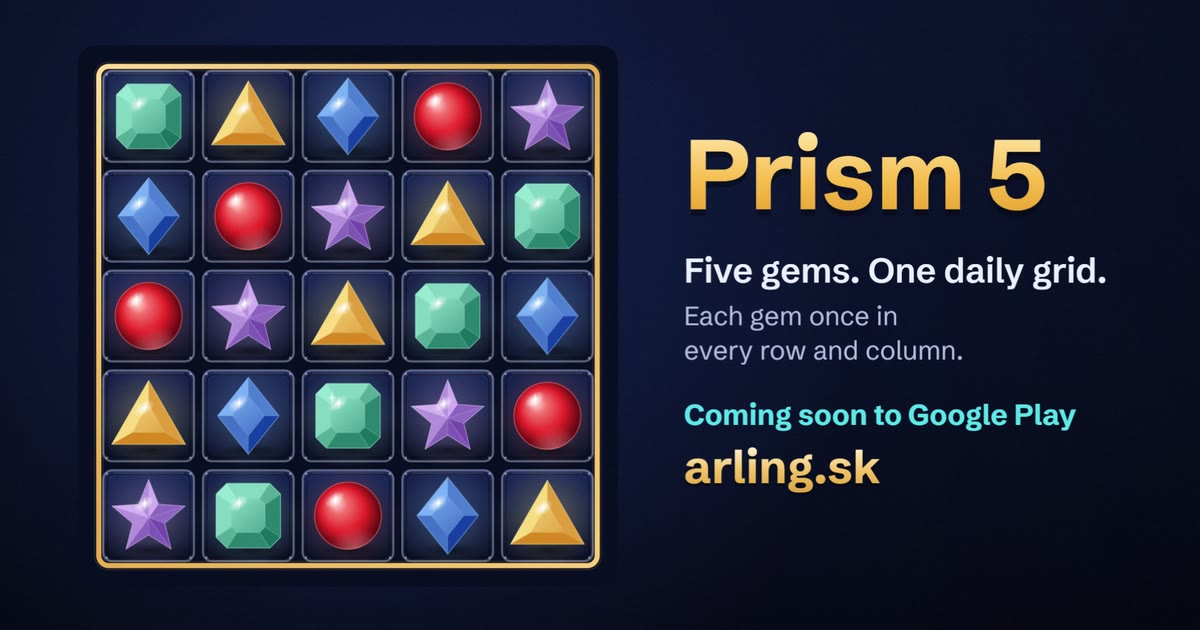
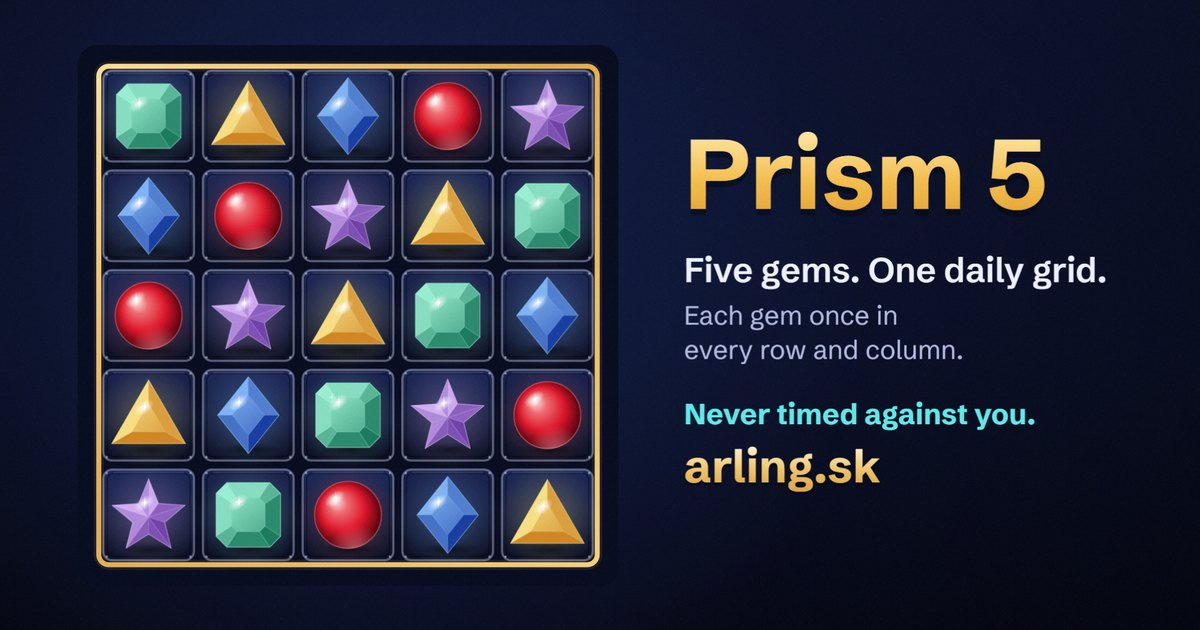
fable: hry na webe pravdivo a s meraním (Andrej 8. 10.: odkaz do Google Play ostáva)
- tlačidlá a odkazy do Play s referrer= (utm_source arling.sk, medium hub alebo film), udalosť play_store vo filme
- preč „Until then“ a „Coming soon to Google Play“ pri hrách, ktoré v obchode sú; FAQ: všetky štyri sú v Play
- Prism 5: záver filmu „One daily grid“ (živá 0.4.0), nie „Four daily grids“
- /play/<hra>/ prenesie UTM na stránku filmu (Umami) namiesto hubu bez merania
- nové náhľady a og.jpg zo skutočných záverov filmov
- Word Search: zásady súkromia spomínajú aj platbu cez Google Play

diff --git a/play/index.html b/play/index.html
@@ -229,28 +229,28 @@ html:not(.css) main>:nth-child(n+2),html:not(.css) body>footer{visibility:hidden
  <a class="product-preview sv-obraz" href="https://arling.sk/play/word-search/film/" data-umami-event="play_film" data-umami-event-appka="word-search"><img src="/play/word-search/film/nahlad-4x5.jpg" alt="A word search board from the film: daisy, tulip, fern and rose found with soft coloured highlights" width="800" height="1000" loading="lazy" decoding="async"></a>
  <div class="sv-text">
   <div class="product-copy"><h3><a href="https://arling.sk/play/word-search/film/" data-umami-event="play_film" data-umami-event-appka="word-search">Word Search: Calm Word Puzzles</a></h3><p class="product-kind">A calm word game for Android</p><p>Find a word, find your flow. Swipe across the letters to find the hidden words in 150 topics, earn coins for every level and spend them on highlighter styles.</p><p class="product-format">Android, no account, <a href="/play/word-search/privacy/">privacy policy</a></p></div>
-  <div class="product-buy"><p class="product-price">Free<span>On Google Play</span></p><div class="sv-kroky"><a class="quiet quiet-lead sv-kupit sv-kupit-plny" href="https://play.google.com/store/apps/details?id=sk.arling.wordsearch&amp;utm_source=arling.sk&amp;utm_medium=hub&amp;utm_campaign=play" rel="noopener" data-umami-event="play_store" data-umami-event-appka="word-search">Get it on Google Play<svg viewBox="0 0 24 24" fill="none" stroke="currentColor" stroke-width="2" stroke-linecap="round" stroke-linejoin="round" aria-hidden="true"><path d="M5 12h13M13 6l6 6-6 6"/></svg></a><a class="quiet" href="https://arling.sk/play/word-search/film/" data-umami-event="play_film" data-umami-event-appka="word-search">Watch the film</a></div></div>
+  <div class="product-buy"><p class="product-price">Free<span>On Google Play</span></p><div class="sv-kroky"><a class="quiet quiet-lead sv-kupit sv-kupit-plny" href="https://play.google.com/store/apps/details?id=sk.arling.wordsearch&amp;referrer=utm_source%3Darling.sk%26utm_medium%3Dhub%26utm_campaign%3Dword-search%26utm_content%3Dplay-hub" rel="noopener" data-umami-event="play_store" data-umami-event-appka="word-search">Get it on Google Play<svg viewBox="0 0 24 24" fill="none" stroke="currentColor" stroke-width="2" stroke-linecap="round" stroke-linejoin="round" aria-hidden="true"><path d="M5 12h13M13 6l6 6-6 6"/></svg></a><a class="quiet" href="https://arling.sk/play/word-search/film/" data-umami-event="play_film" data-umami-event-appka="word-search">Watch the film</a></div></div>
  </div>
 </li>
 <li class="product sv-dl sv-siroka sv-naopak zjav" id="prism5">
  <a class="product-preview sv-obraz" href="https://arling.sk/play/prism5/film/" data-umami-event="play_film" data-umami-event-appka="prism5"><img src="/play/prism5/film/nahlad-4x5.jpg" alt="A finished Prism 5 grid of five gems on a dark board with a gold frame" width="800" height="1000" loading="lazy" decoding="async"></a>
  <div class="sv-text">
   <div class="product-copy"><h3><a href="https://arling.sk/play/prism5/film/" data-umami-event="play_film" data-umami-event-appka="prism5">Prism 5: 5x5 Gem Sudoku</a></h3><p class="product-kind">A daily gem puzzle for Android</p><p>Five gems, one daily grid. Each gem once in every row and every column, and one small deduction at a time. A new grid every day, the same for everyone, never timed against you.</p><p class="product-format">Android, no account, <a href="/play/prism5/privacy/">privacy policy</a></p></div>
-  <div class="product-buy"><p class="product-price">Free<span>On Google Play</span></p><div class="sv-kroky"><a class="quiet quiet-lead sv-kupit sv-kupit-plny" href="https://play.google.com/store/apps/details?id=sk.arling.prism5&amp;utm_source=arling.sk&amp;utm_medium=hub&amp;utm_campaign=prism5" rel="noopener" data-umami-event="play_store" data-umami-event-appka="prism5">Get it on Google Play<svg viewBox="0 0 24 24" fill="none" stroke="currentColor" stroke-width="2" stroke-linecap="round" stroke-linejoin="round" aria-hidden="true"><path d="M5 12h13M13 6l6 6-6 6"/></svg></a><a class="quiet" href="https://arling.sk/play/prism5/film/" data-umami-event="play_film" data-umami-event-appka="prism5">Watch the film</a></div></div>
+  <div class="product-buy"><p class="product-price">Free<span>On Google Play</span></p><div class="sv-kroky"><a class="quiet quiet-lead sv-kupit sv-kupit-plny" href="https://play.google.com/store/apps/details?id=sk.arling.prism5&amp;referrer=utm_source%3Darling.sk%26utm_medium%3Dhub%26utm_campaign%3Dprism5%26utm_content%3Dplay-hub" rel="noopener" data-umami-event="play_store" data-umami-event-appka="prism5">Get it on Google Play<svg viewBox="0 0 24 24" fill="none" stroke="currentColor" stroke-width="2" stroke-linecap="round" stroke-linejoin="round" aria-hidden="true"><path d="M5 12h13M13 6l6 6-6 6"/></svg></a><a class="quiet" href="https://arling.sk/play/prism5/film/" data-umami-event="play_film" data-umami-event-appka="prism5">Watch the film</a></div></div>
  </div>
 </li>
 <li class="product sv-dl sv-siroka zjav" id="quiet-grids">
  <a class="product-preview sv-obraz" href="https://arling.sk/play/quiet-grids/film/" data-umami-event="play_film" data-umami-event-appka="quiet-grids"><img src="/play/quiet-grids/film/nahlad-4x5.jpg" alt="A finished path puzzle from Quiet Grids with coloured lines joining numbered pairs" width="800" height="1000" loading="lazy" decoding="async"></a>
  <div class="sv-text">
   <div class="product-copy"><h3><a href="https://arling.sk/play/quiet-grids/film/" data-umami-event="play_film" data-umami-event-appka="quiet-grids">Quiet Grids: 11 Logic Games</a></h3><p class="product-kind">Eleven logic puzzles a day for Android</p><p>Eleven kinds of logic grid in one calm app, and a new puzzle of each every day. Lines follow your finger as you draw, every board has exactly one answer, and the puzzles play offline.</p><p class="product-format">Android, no account, <a href="/play/quiet-grids/privacy/">privacy policy</a></p></div>
-  <div class="product-buy"><p class="product-price">Free<span>On Google Play</span></p><div class="sv-kroky"><a class="quiet quiet-lead sv-kupit sv-kupit-plny" href="https://play.google.com/store/apps/details?id=sk.arling.quietgrids&amp;utm_source=arling.sk&amp;utm_medium=hub&amp;utm_campaign=quiet-grids" rel="noopener" data-umami-event="play_store" data-umami-event-appka="quiet-grids">Get it on Google Play<svg viewBox="0 0 24 24" fill="none" stroke="currentColor" stroke-width="2" stroke-linecap="round" stroke-linejoin="round" aria-hidden="true"><path d="M5 12h13M13 6l6 6-6 6"/></svg></a><a class="quiet" href="https://arling.sk/play/quiet-grids/film/" data-umami-event="play_film" data-umami-event-appka="quiet-grids">Watch the film</a></div></div>
+  <div class="product-buy"><p class="product-price">Free<span>On Google Play</span></p><div class="sv-kroky"><a class="quiet quiet-lead sv-kupit sv-kupit-plny" href="https://play.google.com/store/apps/details?id=sk.arling.quietgrids&amp;referrer=utm_source%3Darling.sk%26utm_medium%3Dhub%26utm_campaign%3Dquiet-grids%26utm_content%3Dplay-hub" rel="noopener" data-umami-event="play_store" data-umami-event-appka="quiet-grids">Get it on Google Play<svg viewBox="0 0 24 24" fill="none" stroke="currentColor" stroke-width="2" stroke-linecap="round" stroke-linejoin="round" aria-hidden="true"><path d="M5 12h13M13 6l6 6-6 6"/></svg></a><a class="quiet" href="https://arling.sk/play/quiet-grids/film/" data-umami-event="play_film" data-umami-event-appka="quiet-grids">Watch the film</a></div></div>
  </div>
 </li>
 <li class="product sv-dl sv-siroka sv-naopak zjav" id="duel">
  <a class="product-preview sv-obraz" href="https://arling.sk/play/duel/film/" data-umami-event="play_film" data-umami-event-appka="duel"><img src="/play/duel/film/nahlad-4x5.jpg" alt="The Duel result screen: the winner half lit in orange with the score 2 to 1" width="800" height="1000" loading="lazy" decoding="async"></a>
  <div class="sv-text">
   <div class="product-copy"><h3><a href="https://arling.sk/play/duel/film/" data-umami-event="play_film" data-umami-event-appka="duel">Duel: 2 Player Party Games</a></h3><p class="product-kind">A party game for two on one phone</p><p>One phone, two thumbs. Lay the phone flat between you: whoever sees it first taps first. 27 quick mini-games, best of five by default, and it plays offline.</p><p class="product-format">Android, no account, <a href="/play/duel/privacy/">privacy policy</a></p></div>
-  <div class="product-buy"><p class="product-price">Free<span>On Google Play</span></p><div class="sv-kroky"><a class="quiet quiet-lead sv-kupit sv-kupit-plny" href="https://play.google.com/store/apps/details?id=sk.arling.duel&amp;utm_source=arling.sk&amp;utm_medium=hub&amp;utm_campaign=duel" rel="noopener" data-umami-event="play_store" data-umami-event-appka="duel">Get it on Google Play<svg viewBox="0 0 24 24" fill="none" stroke="currentColor" stroke-width="2" stroke-linecap="round" stroke-linejoin="round" aria-hidden="true"><path d="M5 12h13M13 6l6 6-6 6"/></svg></a><a class="quiet" href="https://arling.sk/play/duel/film/" data-umami-event="play_film" data-umami-event-appka="duel">Watch the film</a></div></div>
+  <div class="product-buy"><p class="product-price">Free<span>On Google Play</span></p><div class="sv-kroky"><a class="quiet quiet-lead sv-kupit sv-kupit-plny" href="https://play.google.com/store/apps/details?id=sk.arling.duel&amp;referrer=utm_source%3Darling.sk%26utm_medium%3Dhub%26utm_campaign%3Dduel%26utm_content%3Dplay-hub" rel="noopener" data-umami-event="play_store" data-umami-event-appka="duel">Get it on Google Play<svg viewBox="0 0 24 24" fill="none" stroke="currentColor" stroke-width="2" stroke-linecap="round" stroke-linejoin="round" aria-hidden="true"><path d="M5 12h13M13 6l6 6-6 6"/></svg></a><a class="quiet" href="https://arling.sk/play/duel/film/" data-umami-event="play_film" data-umami-event-appka="duel">Watch the film</a></div></div>
  </div>
 </li>
 </ul></div></section>
@@ -259,7 +259,7 @@ html:not(.css) main>:nth-child(n+2),html:not(.css) body>footer{visibility:hidden
 
 <section class="sv-sek sv-dovera" id="otazky"><div class="wrap">
  <h2>Before you download</h2>
- <details><summary>When can I get the apps?</summary><p>Word Search is on Google Play now. For the other games we add the Google Play button here on the day each one goes live in the store, and not before; until then its entry says Coming soon to Google Play.</p></details>
+ <details><summary>When can I get the apps?</summary><p>All four are on Google Play now: Word Search, Prism 5, Quiet Grids and Duel. The Google Play button is in each entry above, and every game is free to download.</p></details>
  <details><summary>Do the apps need an account or the internet?</summary><p>No account. The puzzles travel inside the apps, so they play offline.</p></details>
  <details><summary>Are the films real gameplay?</summary><p>The films are drawn and scored in code from each app's own colours, rules and puzzles, not screen recordings. Quiet Grids shows real boards the app carries; Prism 5 shows a valid example grid.</p></details>
  <details><summary>Who makes them?</summary><p>ARLing s. r. o., Bratislava, Slovakia. Support: <a href="/play/support/">app support</a>.</p></details>

diff --git a/play/duel/film/film.js b/play/duel/film/film.js
@@ -19,11 +19,10 @@ import { pridajNastroj } from './engine/zvuk.js';
 import { FARBA, rgba, nun, nacitajPisma, IKONY, ikona, sprite, spriteTextu, spriteFarebny, spritePalca } from './kresby.js';
 
 // ---------- záver: prepínač pre deň spustenia ----------
-// Dnes appka nie je verejne v obchode: záver „Coming soon to Google Play“ bez pilulky a bez ▶, odkaz na
-// #about (ops/video/kodfilm/DOSTUPNE-V-OBCHODE.md). V deň, keď verejná stránka obchodu vráti 200, stačí
-// zmeniť ZAVER_PREDVOLENY na 'google-play' (alebo renderovať render.html?zaver=google-play).
+// Duel je v Google Play od 6. 10. 2026; predvolený záver vedie do obchodu (Andrej 8. 10. 2026: odkaz do Play ostáva).
+// 'about' je záver vecnou vetou a ťuk na odsek o appke, ak by bolo treba ľudí do obchodu dočasne neposielať.
 // 'obchod' je verzia do samotného záznamu v Google Play: bez výzvy a bez „coming soon“.
-export const ZAVERY = ['coming-soon', 'google-play', 'obchod'];
+export const ZAVERY = ['coming-soon', 'google-play', 'obchod', 'about'];
 const ZAVER_PREDVOLENY = 'google-play';
 let ZAVER = (() => {
   try {
@@ -38,6 +37,7 @@ const TEXT_ZAVERU = {
   'google-play': 'Get it on Google Play',
   // store-listing-en.md: „NO ACCOUNTS, NO INTERNET, NO PURCHASES“
   obchod: 'No account. Nothing to buy.',
+  about: 'No account needed.',
 };
 
 const DLZKA = 19;
@@ -770,7 +770,7 @@ const film = {
     { od: 3.3, text: 'Next round, Odd One Out. Orange is on match point. Three starting lights, then go. Both halves get the same round: nine arrows, one points a different way.' },
     { od: 7.26, text: 'Orange taps a wrong arrow. A wrong tap gives the point away: the blue half lights up, the right arrow is ringed and the wrong one crossed out. Look first, tap second. Cool as ice. One all.' },
     { od: 9.06, text: 'Decider! Bigger Circle. Orange taps the bigger circle first. Nailed it! 580 ms. Almost! 27 quick games for two players.' },
-    { od: 15.26, text: 'Orange wins the match two to one. Winner. So close. Rematch. Duel. One phone. Two thumbs. 27 mini-games. Plays offline. Coming soon to Google Play. arling.sk' },
+    { od: 15.26, text: 'Orange wins the match two to one. Winner. So close. Rematch. Duel. One phone. Two thumbs. 27 mini-games. Plays offline. ' + TEXT_ZAVERU[ZAVER].replace(/\.?$/, '.') + ' arling.sk' },
   ],
   async pripravit() {
     await nacitajPisma(import.meta.url);
@@ -798,12 +798,12 @@ const film = {
     const tel = telefon(film.plagat), ppd = tel.w / BW;
     return [tel.x + tel.w / 2, tel.y + (RAM + PAS_Y0 * 0.5) * ppd];
   },
-  // Duel ešte nie je v Google Play: nápis nevedie do obchodu, ale na odsek o appke na tejto stránke.
+  // Do obchodu so záverom google-play (predvolený), pri 'about' a 'coming-soon' na odsek o appke.
   odkazy() {
     const { R, texty } = L, s = texty.cta;
     const w = Math.min(s.textW + 8, R.tw), x0 = R.zar === 'center' ? R.tx + (R.tw - w) / 2 : R.tx;
     const doObchodu = ZAVER === 'google-play';
-    return [{ x: x0, y: texty.poz.cta, w, h: s.h, href: doObchodu ? PLAY_URL : '#about', text: doObchodu ? 'Get it on Google Play' : 'About Duel', od: T.tlacidlo, udalost: doObchodu ? 'duel_film_play' : 'duel_film_about' }];
+    return [{ x: x0, y: texty.poz.cta, w, h: s.h, href: doObchodu ? PLAY_URL + '&referrer=utm_source%3Darling.sk%26utm_medium%3Dfilm%26utm_campaign%3Dduel%26utm_content%3Dfilm-zaver' : '#about', text: doObchodu ? 'Get it on Google Play' : 'About Duel', od: T.tlacidlo, udalost: doObchodu ? 'duel_film_play' : 'duel_film_about' }];
   },
   zvuk: [],
   // pre test.mjs: čo sa na obraze číta a fakty, ktoré musia sedieť s kódom appky

diff --git a/play/word-search/film/film.js b/play/word-search/film/film.js
@@ -87,6 +87,10 @@ let L = null;
 // karte aj v háku, ako na karte appky v obchode. Načíta ju pripravit(); bez nej film beží ďalej bez ikony.
 let IKONA = null;
 const OBCHOD = typeof location !== 'undefined' && new URLSearchParams(location.search).has('obchod');
+// Tlačidlo do Google Play vo filme na webe (Andrej 8. 10. 2026: odkaz do Play ostáva). false = záver vecnou vetou
+// ako verzia pre obchod a ťuk na odsek o appke, ak by bolo treba ľudí do obchodu dočasne neposielať.
+const DO_OBCHODU = true;
+const PLAY_URL = 'https://play.google.com/store/apps/details?id=sk.arling.wordsearch&referrer=utm_source%3Darling.sk%26utm_medium%3Dfilm%26utm_campaign%3Dword-search%26utm_content%3Dfilm-zaver';
 
 /** Rozloženie: 9:16, 4:5 a 1:1 pod sebou (hlavička, doska, čipy, titulok), 16:9 doska vľavo, zvyšok vpravo. */
 function rozlozenie(W, H) {
@@ -336,7 +340,7 @@ function stavTexty(W, H, dpr, R) {
   // pod ním čitateľná adresa (aspoň 40 px pri 1080). Veta pre vývojárov vypadla.
   // Verzia pre záznam v Google Play (?obchod): „Coming soon to Google Play“ je v samotnom obchode nepravda a odznak je
   // výzva, preto len vecná veta bez výzvy (ops/video/PLAY-VIDEA.md, tretí záver).
-  const TXT = OBCHOD ? 'Daily puzzle. Plays offline.' : 'Get it on Google Play';
+  const TXT = OBCHOD || !DO_OBCHODU ? 'Daily puzzle. Plays offline.' : 'Get it on Google Play';
   m.font = nun(800, 100);
   const kB = m.measureText(TXT).width / 100;
   const velB = Math.max(mp * 1.1, Math.min(s * (R.stred ? 0.046 : 0.042), R.ew / kB));
@@ -688,7 +692,7 @@ const film = {
     { od: 7.4, text: 'Rose runs upward, then daisy across the top. Every word is found.' },
     { od: 9.35, text: 'Level complete. Finish a level, earn coins: plus 15 coins, counted out one by one.' },
     { od: 12.15, text: 'Coins unlock new highlighter styles: Chalk, Marker, Stitch and Ribbon, then Classic again.' },
-    { od: 16.15, text: 'The Word Search app icon, letter tiles spelling fun, art and sea. Word Search. Find a word. Find your flow. Calm word puzzles in 150 topics. ' + (OBCHOD ? 'Daily puzzle. Plays offline.' : 'Get it on Google Play.') + ' arling.sk' },
+    { od: 16.15, text: 'The Word Search app icon, letter tiles spelling fun, art and sea. Word Search. Find a word. Find your flow. Calm word puzzles in 150 topics. ' + (OBCHOD || !DO_OBCHODU ? 'Daily puzzle. Plays offline.' : 'Get it on Google Play.') + ' arling.sk' },
   ],
   async pripravit() {
     await nacitajPisma(import.meta.url);
@@ -723,10 +727,10 @@ const film = {
   },
   // tlačidlo prehrať na plagáte: stred dosky v koncovej polohe
   stredPlagatu() { const R = L.R; return [R.bx2 + R.B2 / 2, R.by2 + R.B2 / 2]; },
-  // Word Search je v Google Play (verejná stránka 200 od 30. 9. 2026 overená curl): tlačidlo vedie do obchodu.
+  // Do obchodu pri DO_OBCHODU, inak na odsek o appke.
   odkazy() {
     const b = L.texty.btn;
-    return [{ x: b.x, y: b.y, w: b.w, h: b.h, href: 'https://play.google.com/store/apps/details?id=sk.arling.wordsearch&utm_source=arling.sk&utm_medium=film&utm_campaign=word-search-film', text: 'Get it on Google Play', od: T.tlacidlo, udalost: 'word_search_film_play' }];
+    return [{ x: b.x, y: b.y, w: b.w, h: b.h, href: DO_OBCHODU ? PLAY_URL : '#about', text: DO_OBCHODU ? 'Get it on Google Play' : 'About Word Search', od: T.tlacidlo, udalost: DO_OBCHODU ? 'word_search_film_play' : 'word_search_film_about' }];
   },
   zvuk: partitura(),
 };

diff --git a/play/word-search/privacy/index.html b/play/word-search/privacy/index.html
@@ -232,7 +232,7 @@ html:not(.css) main>:nth-child(n+3),html:not(.css) body>footer{visibility:hidden
 </header>
 <main id="arling-obsah" tabindex="-1">
   <section class="uv-lead wrap" aria-labelledby="h1">
-    <p class="uv-masthead"><span>App privacy</span><span>Word Search, package sk.arling.wordsearch</span><span>In force from 21 September 2026, updated 29 September 2026 for purchases</span></p>
+    <p class="uv-masthead"><span>App privacy</span><span>Word Search, package sk.arling.wordsearch</span><span>In force from 21 September 2026, updated 8 October 2026</span></p>
     <div class="uv-lead-grid jeden">
       <div class="uv-lead-text">
         <h1 id="h1">What Word Search does with your data.</h1>
@@ -265,7 +265,7 @@ html:not(.css) main>:nth-child(n+3),html:not(.css) body>footer{visibility:hidden
       <p>Two things in the installed app's permission list are worth explaining before you wonder about them. The billing permission is there for the purchases above. The advertising library adds permissions of its own, among them the one for the Android advertising ID. Neither of those changes anything written above: the game itself still sends nothing to us.</p>
 
       <h2 id="s3"><span class="c">3</span>Advertising by Google</h2>
-      <p>The game shows ads through the Google Mobile Ads SDK, and asks for consent through Google's User Messaging Platform. These two libraries are the only reason the app needs the internet. They are Google's software, running inside the app, and what they collect goes to Google, not to us. We never receive it.</p>
+      <p>The game shows ads through the Google Mobile Ads SDK, and asks for consent through Google's User Messaging Platform. Apart from Google Play's payment when you buy something (described above), these two libraries are the only reason the app needs the internet. They are Google's software, running inside the app, and what they collect goes to Google, not to us. We never receive it.</p>
       <p>Google's own disclosure for this SDK lists four things it may collect: your IP address, which Google may use to estimate the general area you are in; your interactions with the app, such as launches, taps and video views; diagnostic information, such as start-up time, hangs and energy use; and identifiers of the device or account, including the Android advertising ID and the app set ID. Google says this traffic is encrypted in transit with TLS. Google uses it for advertising, measurement and fraud prevention.</p>
       <p>The source is Google's page <a href="https://developers.google.com/admob/android/privacy/play-data-disclosure">Data disclosure for the Google Mobile Ads SDK</a>. Google's own <a href="https://policies.google.com/privacy">privacy policy</a> and its page on <a href="https://policies.google.com/technologies/partner-sites">how Google uses information from sites or apps that use its services</a> describe what happens afterwards, including how long Google keeps it and where it is processed. We do not control any of that and we will not pretend otherwise.</p>
       <p>Because of this SDK, the app is not a zero-collection app, even though the game itself sends nothing. Saying otherwise in the store would be false.</p>

diff --git a/play/prism5/film/film.js b/play/prism5/film/film.js
@@ -15,7 +15,9 @@ const DLZKA = 14;
 // ---------- záver: prepínač pre deň spustenia (ops/video/kodfilm/DOSTUPNE-V-OBCHODE.md, ako Duel a Quiet Grids) ----------
 // Andrej 30. 9. 2026: „sprav také aj, že to je na google play, keď to vyjde“. 'coming-soon' na webe, kým obchod nevráti 200;
 // 'google-play' v deň vydania (ops/games/play/verejne.mjs prepne ZAVER_PREDVOLENY); 'obchod' (aj ?obchod) do záznamu v Play.
-export const ZAVERY = ['coming-soon', 'google-play', 'obchod'];
+export const ZAVERY = ['coming-soon', 'google-play', 'obchod', 'about'];
+// 'about': záver vecnou vetou bez výzvy a ťuk na odsek o appke, ak by bolo treba ľudí do obchodu dočasne
+// neposielať. Predvolený je obchod (Andrej 8. 10. 2026: odkaz do Play ostáva).
 const ZAVER_PREDVOLENY = 'google-play';
 let ZAVER = (() => {
   try {
@@ -28,8 +30,10 @@ let ZAVER = (() => {
 export function nastavZaver(z) { if (ZAVERY.includes(z)) ZAVER = z; }
 const PLAY_URL = 'https://play.google.com/store/apps/details?id=sk.arling.prism5';
 // Appka má štyri denné mriežky (store-listing-en.md overený proti kódu); webová hra na arling.sk jednu.
-const appka = () => ZAVER !== 'coming-soon';
-const TEXT_ZAVERU = { 'coming-soon': 'Coming soon to Google Play', 'google-play': 'Get it on Google Play', obchod: 'Endless levels. Never guessed.' };
+// Živá verzia 0.4.0 má jednu dennú mriežku (W6); „Four daily grids“ až so zostavou, ktorá ich naozaj má.
+const STYRI_MRIEZKY = false;
+const appka = () => STYRI_MRIEZKY && ZAVER !== 'coming-soon';
+const TEXT_ZAVERU = { 'coming-soon': 'Coming soon to Google Play', 'google-play': 'Get it on Google Play', obchod: 'Endless levels. Never guessed.', about: 'Never timed against you.' };
 
 // Platný latinský štvorec 5 x 5: každý drahokam raz v každom riadku aj stĺpci.
 // C Circle, D Diamond, Q Square, S Star, T Triangle.
@@ -594,11 +598,11 @@ const film = {
   },
   // tlačidlo prehrať na plagáte: stred dosky v koncovej polohe
   stredPlagatu() { const R = L.R; return [R.bx2 + R.B2 / 2, R.by2 + R.B2 / 2]; },
-  // Kým Prism 5 nie je v Google Play, štítok vedie na odsek o appke; v deň vydania (zaver google-play) do obchodu.
+  // Do obchodu so záverom google-play (predvolený), pri 'about' a 'coming-soon' na odsek o appke.
   odkazy() {
     const b = L.texty.btn;
     const doObchodu = ZAVER === 'google-play';
-    return [{ x: b.x, y: b.y, w: b.w, h: b.h, href: doObchodu ? PLAY_URL + '&utm_source=arling.sk&utm_medium=film&utm_campaign=prism5-film' : '#about', text: doObchodu ? 'Get it on Google Play' : 'Coming soon to Google Play. About Prism 5', od: T.tlacidlo, udalost: doObchodu ? 'prism5_film_play' : 'prism5_film_about' }];
+    return [{ x: b.x, y: b.y, w: b.w, h: b.h, href: doObchodu ? PLAY_URL + '&referrer=utm_source%3Darling.sk%26utm_medium%3Dfilm%26utm_campaign%3Dprism5%26utm_content%3Dfilm-zaver' : '#about', text: doObchodu ? 'Get it on Google Play' : 'About Prism 5', od: T.tlacidlo, udalost: doObchodu ? 'prism5_film_play' : 'prism5_film_about' }];
   },
   zvuk: partitura(),
 };

diff --git a/play/quiet-grids/film/film.js b/play/quiet-grids/film/film.js
@@ -18,8 +18,10 @@ import { FARBA, ZVIERATA, meno, rgba, nun, nacitajPisma, nacitajZvierata, sprite
 import { ZAZNAMY, PRAVIDLA, rozbal, retaz, cesty, mosty, obrazok } from './hlavolamy.js';
 
 // ---------- záver: prepínač pre deň spustenia (ops/video/kodfilm/DOSTUPNE-V-OBCHODE.md) ----------
-export const ZAVERY = ['coming-soon', 'google-play', 'obchod'];
-const ZAVER_PREDVOLENY = 'google-play'; // v deň, keď verejná stránka obchodu vráti 200: 'google-play'
+export const ZAVERY = ['coming-soon', 'google-play', 'obchod', 'about'];
+// 'about': záver vecnou vetou bez výzvy a ťuk na odsek o appke, ak by bolo treba ľudí do obchodu dočasne
+// neposielať. Predvolený je obchod (Andrej 8. 10. 2026: odkaz do Play ostáva).
+const ZAVER_PREDVOLENY = 'google-play';
 let ZAVER = (() => {
   try {
     const q = new URLSearchParams(globalThis.location?.search || '').get('zaver');
@@ -33,6 +35,7 @@ const TEXT_ZAVERU = {
   'google-play': 'Get it on Google Play',
   // store-listing-en.md: „nothing needs the internet to play“, „There is no account“
   obchod: 'Plays offline. No account.',
+  about: 'Plays offline. No account.',
 };
 
 const DLZKA = 18.3;
@@ -636,7 +639,7 @@ const film = {
     { od: 4.95, text: 'Cranes, also called Hashi. Each island takes the number of bridges it shows. The 4 in the corner has only two neighbours, so both get double bridges: the finger draws them twice.' },
     { od: 8.65, text: 'Magpies, also called Nonogram. The clues count the filled blocks in order. The bottom row and the right column both say 8, so the finger fills them from end to end.' },
     { od: 11.85, text: 'Eleven logic puzzles a day: Badgers, Hares, Squirrels, Cranes, Swans, Magpies, Herons, Voles, Otters, Hedgehogs and Dormice, each with its classic name.' },
-    { od: 14.45, text: 'Quiet Grids. Draw, reason, solve. No countdowns, no rush. Coming soon to Google Play. arling.sk' },
+    { od: 14.45, text: 'Quiet Grids. Draw, reason, solve. No countdowns, no rush. ' + TEXT_ZAVERU[ZAVER].replace(/\.?$/, '.') + ' arling.sk' },
   ],
   async pripravit() {
     await Promise.all([nacitajPisma(import.meta.url), nacitajZvierata(import.meta.url)]);
@@ -668,7 +671,7 @@ const film = {
     const { R, texty } = L, s = texty.cta;
     const w = Math.min(s.textW + 8, R.tw), x0 = R.zar === 'center' ? R.tx + (R.tw - w) / 2 : R.tx;
     const doObchodu = ZAVER === 'google-play';
-    return [{ x: x0, y: texty.poz.cta, w, h: s.h, href: doObchodu ? PLAY_URL : '#about', text: doObchodu ? 'Get it on Google Play' : 'About Quiet Grids', od: T.tlacidlo, udalost: doObchodu ? 'quiet_grids_film_play' : 'quiet_grids_film_about' }];
+    return [{ x: x0, y: texty.poz.cta, w, h: s.h, href: doObchodu ? PLAY_URL + '&referrer=utm_source%3Darling.sk%26utm_medium%3Dfilm%26utm_campaign%3Dquiet-grids%26utm_content%3Dfilm-zaver' : '#about', text: doObchodu ? 'Get it on Google Play' : 'About Quiet Grids', od: T.tlacidlo, udalost: doObchodu ? 'quiet_grids_film_play' : 'quiet_grids_film_about' }];
   },
   zvuk: [],
   kontrola: {

diff --git a/play/duel/film/index.html b/play/duel/film/index.html
@@ -270,7 +270,7 @@ html:not(.css) main>:nth-child(n+2),html:not(.css) body>footer{visibility:hidden
     <div class="wrap prose">
       <h2>About Duel.</h2>
       <p>Duel: 2 Player Party Games is our game for Android for two people and one phone. Lay the phone flat between you and the screen splits in half, the top half turned around for the player opposite. You each get one half and one thumb, both halves are dealt the same round, and a match is first to two, three or five won rounds across 27 mini-games of reflex, attention, sharp eyes, memory, timing and thinking. It plays offline, needs no account and has nothing to buy. It contains ads, never during a round: at most one full-screen ad when you leave a finished match, and two optional ones you choose to watch.</p>
-      <p>Duel is on Google Play: <a href="https://play.google.com/store/apps/details?id=sk.arling.duel&amp;utm_source=arling.sk&amp;utm_medium=film&amp;utm_campaign=duel" rel="noopener">get it on Google Play</a>. Its <a href="/play/duel/privacy/">privacy policy</a> is already published. Until then, our <a href="/games/" data-umami-event="duel_film_about_to_games">free daily logic puzzles</a> run in your browser today.</p>
+      <p>Duel is a free Android game: <a href="https://play.google.com/store/apps/details?id=sk.arling.duel&amp;referrer=utm_source%3Darling.sk%26utm_medium%3Dfilm%26utm_campaign%3Dduel%26utm_content%3Dabout" rel="noopener" data-umami-event="play_store" data-umami-event-appka="duel" data-umami-event-miesto="film">get it on Google Play</a>. Its <a href="/play/duel/privacy/">privacy policy</a> is published. Our <a href="/games/" data-umami-event="duel_film_about_to_games">free daily logic puzzles</a> also run right here in your browser.</p>
       <h2>How the film is made.</h2>
       <p>There is no video file on this page. Every frame is drawn on a canvas by a small script, and every sound, from the first chord to the chime at the end, is synthesised by Web Audio in your browser after you tap. The game's own three sounds are rebuilt from the same recipe that made them, a sine with a soft octave that fades out, played at the same pitches the game uses. No screen recording, no photo, no picture generator. The same script renders the film frame by frame into videos for YouTube and Instagram.</p>
       <p>It is built to be light: what does not move is drawn once and reused, the film stops when it ends, when you scroll away or switch tabs, and it shows a still picture if your device asks for reduced motion. The Nunito font is used under the <a href="/play/duel/film/nunito-OFL.txt">SIL Open Font License</a>. Questions: <a href="mailto:andrej@arling.sk">andrej@arling.sk</a>.</p>

diff --git a/play/quiet-grids/film/index.html b/play/quiet-grids/film/index.html
@@ -271,7 +271,7 @@ html:not(.css) main>:nth-child(n+2),html:not(.css) body>footer{visibility:hidden
     <div class="wrap prose">
       <h2>About Quiet Grids.</h2>
       <p>Quiet Grids: 11 Logic Games is our puzzle app for Android. At midnight UTC it lays out eleven fresh boards, one of each kind: killer sudoku, anti-knight sudoku, kakuro, hashi, masyu, nonogram, numberlink, nurikabe, slitherlink, star battle and a logic grid. Every board has exactly one answer, checked by a solver before the app was packed, and the last thirty days stay open in the calendar. Check and Hint are free and never fill a square in for you. The puzzles travel inside the app, so nothing needs the internet to play, and there is no account.</p>
-      <p>Quiet Grids is on Google Play: <a href="https://play.google.com/store/apps/details?id=sk.arling.quietgrids&amp;utm_source=arling.sk&amp;utm_medium=film&amp;utm_campaign=quiet-grids" rel="noopener">get it on Google Play</a>. Its <a href="/play/quiet-grids/privacy/">privacy policy</a> is already published. Until then, our <a href="/games/" data-umami-event="quiet_grids_film_about_to_games">free daily logic puzzles</a> run in your browser today.</p>
+      <p>Quiet Grids is a free Android game: <a href="https://play.google.com/store/apps/details?id=sk.arling.quietgrids&amp;referrer=utm_source%3Darling.sk%26utm_medium%3Dfilm%26utm_campaign%3Dquiet-grids%26utm_content%3Dabout" rel="noopener" data-umami-event="play_store" data-umami-event-appka="quiet-grids" data-umami-event-miesto="film">get it on Google Play</a>. Its <a href="/play/quiet-grids/privacy/">privacy policy</a> is published. Our <a href="/games/" data-umami-event="quiet_grids_film_about_to_games">free daily logic puzzles</a> also run right here in your browser.</p>
       <h2>How the film is made.</h2>
       <p>There is no video file on this page. Every frame is drawn on a canvas by a small script, and every sound is synthesised by Web Audio in your browser after you tap. The app's own three sounds, a soft wooden mallet, are rebuilt from the same recipe that made them and played at the same pitches the app uses. No screen recording, no photo, no picture generator. The same script renders the film frame by frame into videos for YouTube and Instagram.</p>
       <p>It is built to be light: what does not move is drawn once and reused, the film stops when it ends, when you scroll away or switch tabs, and it shows a still picture if your device asks for reduced motion. The Nunito font is used under the <a href="/play/quiet-grids/film/nunito-OFL.txt">SIL Open Font License</a>. Questions: <a href="mailto:andrej@arling.sk">andrej@arling.sk</a>.</p>

diff --git a/play/word-search/film/index.html b/play/word-search/film/index.html
@@ -271,7 +271,7 @@ html:not(.css) main>:nth-child(n+2),html:not(.css) body>footer{visibility:hidden
     <div class="wrap prose">
       <h2>About Word Search.</h2>
       <p>Word Search: Calm Word Puzzles is our word game for Android. Find hidden English words in 150 topics, play a daily puzzle, walk thirty named chapters and earn coins for finished levels. Coins unlock five highlighter styles on top of the free Classic one. Puzzles play offline and need no account. The game is free and contains ads: occasional ones between finished levels, never while you select a word, and optional ones you can watch for extra coins.</p>
-      <p>Word Search is on Google Play: <a href="https://play.google.com/store/apps/details?id=sk.arling.wordsearch&amp;utm_source=arling.sk&amp;utm_medium=film&amp;utm_campaign=word-search-film" rel="noopener">get it on Google Play</a>. Its <a href="/play/word-search/privacy/">privacy policy</a> is already published. Until then, our <a href="/games/" data-umami-event="word_search_film_about_to_games">free daily logic puzzles</a> run in your browser today.</p>
+      <p>Word Search is a free Android game: <a href="https://play.google.com/store/apps/details?id=sk.arling.wordsearch&amp;referrer=utm_source%3Darling.sk%26utm_medium%3Dfilm%26utm_campaign%3Dword-search%26utm_content%3Dabout" rel="noopener" data-umami-event="play_store" data-umami-event-appka="word-search" data-umami-event-miesto="film">get it on Google Play</a>. Its <a href="/play/word-search/privacy/">privacy policy</a> is published. Our <a href="/games/" data-umami-event="word_search_film_about_to_games">free daily logic puzzles</a> also run right here in your browser.</p>
       <h2>How the film is made.</h2>
       <p>There is no video file on this page. Every frame is drawn on a canvas by a small script, and every sound, from the first chime to the chord at the end, is synthesised by Web Audio in your browser after you tap. No screen recording, no photo, no picture generator. The same script renders the film frame by frame into videos for YouTube and Instagram.</p>
       <p>It is built to be light: what does not move is drawn once and reused, the film stops when it ends, when you scroll away or switch tabs, and it shows a still picture if your device asks for reduced motion. The Nunito font is used under the <a href="/play/word-search/film/nunito-OFL.txt">SIL Open Font License</a>. Questions: <a href="mailto:andrej@arling.sk">andrej@arling.sk</a>.</p>

diff --git a/play/prism5/film/index.html b/play/prism5/film/index.html
@@ -268,7 +268,7 @@ html:not(.css) main>:nth-child(n+2),html:not(.css) body>footer{visibility:hidden
     <div class="wrap prose">
       <h2>About Prism 5.</h2>
       <p>Prism 5 is our daily logic puzzle for Android. Fill the 5 by 5 grid so that every row and every column holds each of the five gems exactly once.</p>
-      <p>Prism 5 is on Google Play: <a href="https://play.google.com/store/apps/details?id=sk.arling.prism5&amp;utm_source=arling.sk&amp;utm_medium=film&amp;utm_campaign=prism5" rel="noopener">get it on Google Play</a>. Its <a href="/play/prism5/privacy/">privacy policy</a> is already published. Until then, our <a href="/games/" data-umami-event="prism5_film_about_to_games">free daily logic puzzles</a> run in your browser today.</p>
+      <p>Prism 5 is a free Android game: <a href="https://play.google.com/store/apps/details?id=sk.arling.prism5&amp;referrer=utm_source%3Darling.sk%26utm_medium%3Dfilm%26utm_campaign%3Dprism5%26utm_content%3Dabout" rel="noopener" data-umami-event="play_store" data-umami-event-appka="prism5" data-umami-event-miesto="film">get it on Google Play</a>. Its <a href="/play/prism5/privacy/">privacy policy</a> is published. Our <a href="/games/" data-umami-event="prism5_film_about_to_games">free daily logic puzzles</a> also run right here in your browser.</p>
       <h2>How the film is made.</h2>
       <p>There is no video file on this page. Every frame is drawn on a canvas by a small script, and every sound, from the first chime to the chord at the end, is synthesised by Web Audio in your browser after you tap. No photo, no recording, no picture generator. The same script renders the film frame by frame into a video for YouTube and Google Play.</p>
       <p>It is built to be light: what does not move is drawn once and reused, the film stops when it ends, when you scroll away or switch tabs, and it shows a still picture if your device asks for reduced motion. Questions: <a href="mailto:andrej@arling.sk">andrej@arling.sk</a>.</p>

diff --git a/play/quiet-grids/index.html b/play/quiet-grids/index.html
@@ -3,11 +3,14 @@
 <head>
 <meta charset="utf-8">
 <meta name="viewport" content="width=device-width, initial-scale=1">
+<meta http-equiv="Content-Security-Policy" content="default-src 'none'; script-src 'sha256-WaKGSrhkeNXNoq8fwKTtvXpLPBc1lVFHpvDWabXEGT8='; base-uri 'none'; form-action 'none'">
 <title>Quiet Grids for Android | ARLing</title>
 <meta name="robots" content="noindex, follow">
-<meta http-equiv="refresh" content="0; url=/play/#quiet-grids">
+<link rel="canonical" href="https://arling.sk/play/quiet-grids/film/">
+<script>location.replace('/play/quiet-grids/film/'+location.search+location.hash)</script>
+<noscript><meta http-equiv="refresh" content="0; url=/play/quiet-grids/film/"></noscript>
 </head>
 <body>
-<p><a href="/play/#quiet-grids">Quiet Grids for Android</a> is on Google Play: <a href="https://play.google.com/store/apps/details?id=sk.arling.quietgrids&amp;utm_source=arling.sk&amp;utm_medium=web&amp;utm_campaign=quiet-grids" rel="noopener">get it on Google Play</a>. <a href="/play/quiet-grids/film/">Watch the film</a>.</p>
+<p><a href="/play/quiet-grids/film/">Quiet Grids for Android: watch the film</a>.</p>
 </body>
 </html>

diff --git a/play/word-search/index.html b/play/word-search/index.html
@@ -3,11 +3,14 @@
 <head>
 <meta charset="utf-8">
 <meta name="viewport" content="width=device-width, initial-scale=1">
+<meta http-equiv="Content-Security-Policy" content="default-src 'none'; script-src 'sha256-PFjl3HY4r6dR8JROi1LCoLm0oM/oUPeK6/YHrq7KoRo='; base-uri 'none'; form-action 'none'">
 <title>Word Search for Android | ARLing</title>
 <meta name="robots" content="noindex, follow">
-<meta http-equiv="refresh" content="0; url=/play/#word-search">
+<link rel="canonical" href="https://arling.sk/play/word-search/film/">
+<script>location.replace('/play/word-search/film/'+location.search+location.hash)</script>
+<noscript><meta http-equiv="refresh" content="0; url=/play/word-search/film/"></noscript>
 </head>
 <body>
-<p><a href="/play/#word-search">Word Search for Android</a> is on Google Play: <a href="https://play.google.com/store/apps/details?id=sk.arling.wordsearch&amp;utm_source=arling.sk&amp;utm_medium=web&amp;utm_campaign=word-search" rel="noopener">get it on Google Play</a>. <a href="/play/word-search/film/">Watch the film</a>.</p>
+<p><a href="/play/word-search/film/">Word Search for Android: watch the film</a>.</p>
 </body>
 </html>
